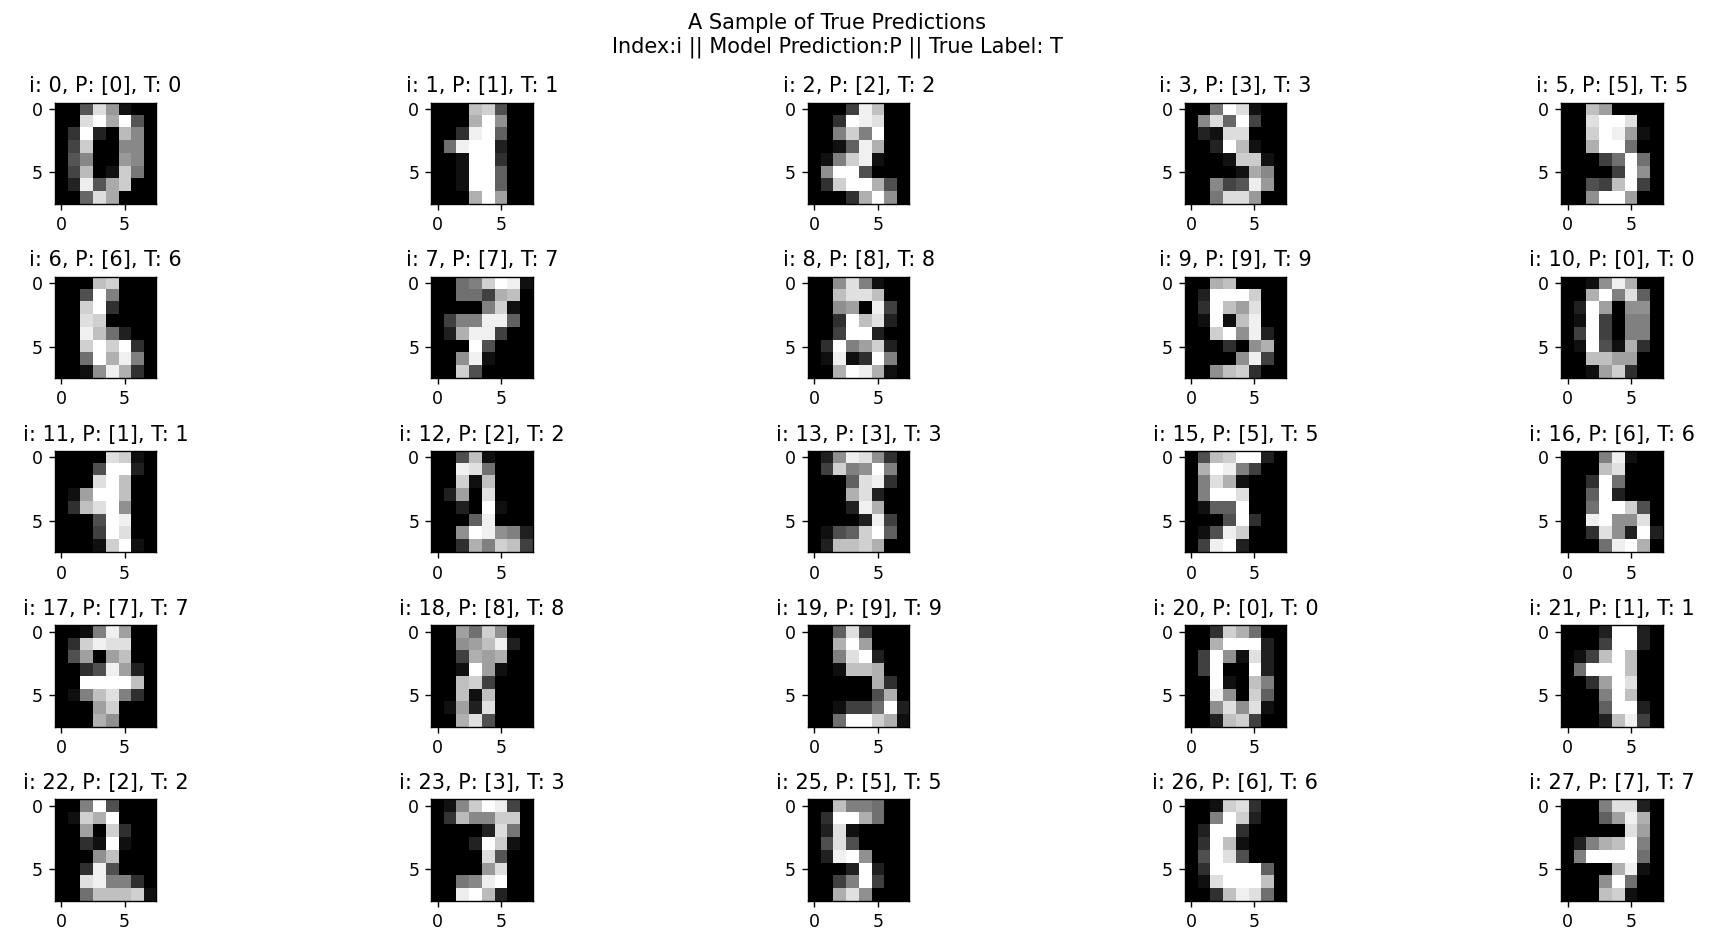
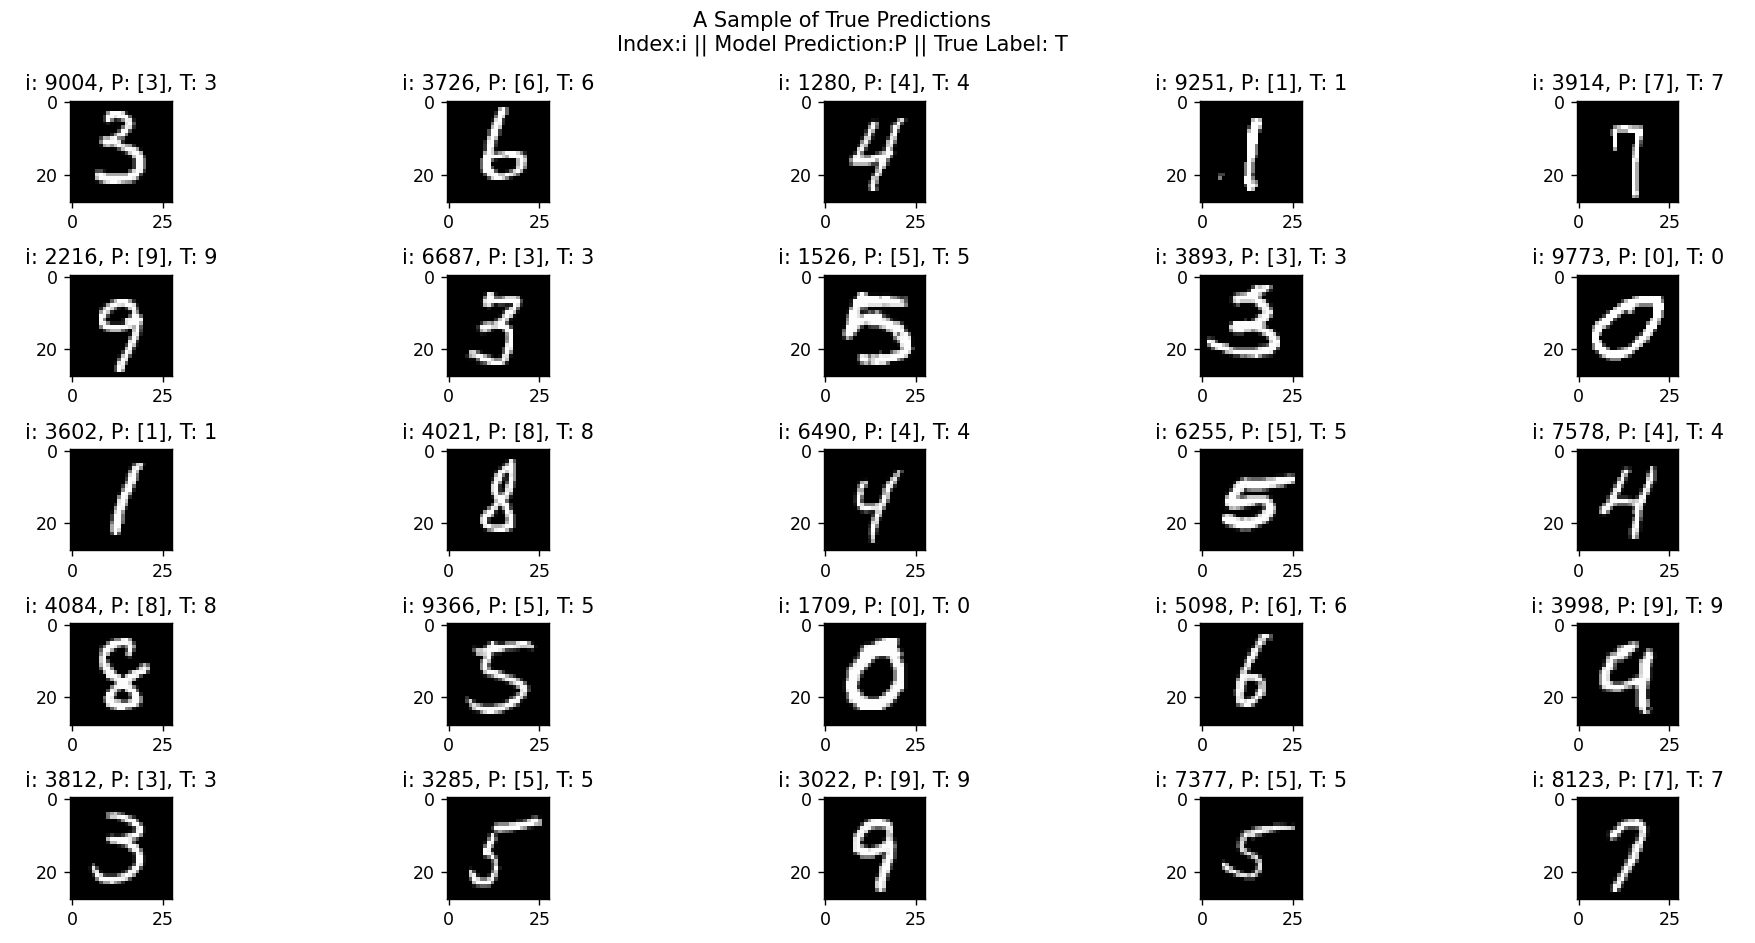
new-dataset-and-some-fix

diff --git a/3_layer_neural_network_v1.py b/3_layer_neural_network_v1.py
@@ -1,6 +1,6 @@
 import numpy as np
 import matplotlib.pyplot as plt
-from sklearn.datasets import load_digits
+from keras.datasets import mnist
 
 #Normalizing input values because of the ensure numerical stability, this function provides normal distribution
 def zScoreNormalize(data):
@@ -19,13 +19,13 @@ def oneHotY(Y):
 
 #[0, 1) initialization of weights and biases nothing special, this will change in other versions 
 def initParams():
-    W1 = np.random.randint(10, size=(20, 64)) * 0.1
+    W1 = np.random.randint(10, size=(20, 784)) * 0.1
     b1 = np.random.randint(10, size=(20, 1)) * 0.1
     W2 = np.random.randint(10, size=(15, 20)) * 0.1
     b2 = np.random.randint(10, size=(15, 1)) * 0.1
     W3 = np.random.randint(10, size=(10, 15)) * 0.1
     b3 = np.random.randint(10, size=(10, 1)) * 0.1
-       
+
     return W1, b1, W2, b2, W3, b3
 
 #Rectifier linear unit function for activation
@@ -117,6 +117,14 @@ def gradientDescent(X, Y, iter, learning_rate):
     
     return W1, b1, W2, b2, W3, b3
 
+def randomTestIndices(amount, max_index):
+    test_indices = []
+    
+    for i in range(amount):
+        test_indices.append(np.random.randint(max_index))
+        
+    return test_indices
+
 class MODEL:
     def __init__(self, X, Y, W1, b1, W2, b2, W3, b3):
         self.X = X
@@ -145,18 +153,19 @@ class MODEL:
         predicts_sample = []
         
         if type.lower() == "wrong":
+            
             for i in range(self.Y.size):
                 isSame, prediction, true_label = self.testPredict(i)
                 if(isSame == False):
                     predicts_sample.append([i, prediction, true_label])
                     
         elif type.lower() == "true":
-            i = 0
+            
             while len(predicts_sample) < 25:
+                i = np.random.randint(10000)
                 isSame, prediction, true_label = self.testPredict(i)
                 if(isSame == True):
                     predicts_sample.append([i, prediction, true_label])
-                i += 1
                     
         self.plotPredictions(type, predicts_sample)
         return predicts_sample
@@ -176,7 +185,7 @@ class MODEL:
                 except IndexError:
                     i = size+1
                     break
-                axes[i, j].imshow(self.X[:, ind, None].reshape((8, 8)))
+                axes[i, j].imshow(self.X[:, ind, None].reshape((28, 28)))
                 axes[i, j].set_title(f"i: {ind}, P: {p}, T: {t}")
         
         plt.tight_layout()
@@ -189,17 +198,17 @@ class MODEL:
             print(f"Index: {sample[i]}, Prediction: {p}, True Label: {t}")     
         
         
-digits = load_digits()
-x_train = digits.images
-m_train = x_train.shape[0]
-num_px = x_train.shape[1]
-y_train = digits.target
-#print(y_train, y_train.shape) #(1797,)
-#print(x_train, x_train.shape) #(1797, 8, 8)
+(x_train, y_train), (_,_) = mnist.load_data()
 
-#Converting the each images' pixels as a one vector => we get X matrix each column is one image.
+x_train = x_train[0:10000, :]
+y_train = y_train[0:10000]
+m_train = y_train.size
+#print(y_train, y_train.shape) #(10000,)
+#print(x_train, x_train.shape) #(10000, 28, 28)
+
+# Converting the each images' pixels as a one vector => we get X matrix each column is one image.
 x_flat = x_train.reshape(x_train.shape[0], -1).T
-#print(x_flat.shape)    #(64, 1797)
+#print(x_flat.shape)    #(784, 10000)
 x_flat = zScoreNormalize(x_flat)
 
 #training model
@@ -209,10 +218,9 @@ W1, b1, W2, b2, W3, b3 = gradientDescent(x_flat, y_train, 10000, 0.01)
 model = MODEL(x_flat, y_train, W1, b1, W2, b2, W3, b3)
 
 #random indices to visualize model's guess and their true values
-test_indices = [254, 18, 967, 99]
+test_indices = randomTestIndices(10, m_train)
 model.testPredictionSample(test_indices)
 
 #plotting some of true and wrong predictions with maxixum amount of 25
 model.predictionSamples("true")
-model.predictionSamples("wrong")
-
+wrong_label = model.predictionSamples("wrong") #you can get all wrong labeled image indexes

diff --git a/README.md b/README.md
@@ -2,8 +2,8 @@
 &nbsp;
 
 ## DATASET
-- Images are **(8,8)** pixels
-- Total image amount is **1797**
+- Images are **(28, 28)** pixels
+- Total image amount is **60000** but we use **10000** for training
 
 
 &nbsp;
@@ -17,7 +17,7 @@
 - There is no optimizer, initializer just vanilla neural network with **Z Score Normalization**
 - Lack of the optimizer provides **unstability** on model performance
 - Lack of the initializer provides **not learning** model
-- Accuracy around **%75 - %90** in general
+- Accuracy around **%75 - %85** in general
 
 &nbsp;
 &nbsp;
@@ -35,13 +35,13 @@
 &nbsp;
 **A True Labeled Sample from Model Predictions**
 
-![ScreeShot](./doc/3_layer_nn_v1/3_layer_nn_v1_true_sample.png)
+![ScreenShot](./doc/3_layer_nn_v1/3_layer_nn_v1_true_sample.png)
 
 &nbsp;
 &nbsp;
 **A Wrong Labeled Sample from Model Predictions**
 
-![ScreeShot](./doc/3_layer_nn_v1/3_layer_nn_v1_wrong_sample.png)
+![ScreenShot](./doc/3_layer_nn_v1/3_layer_nn_v1_wrong_sample.png)
 
 
 
